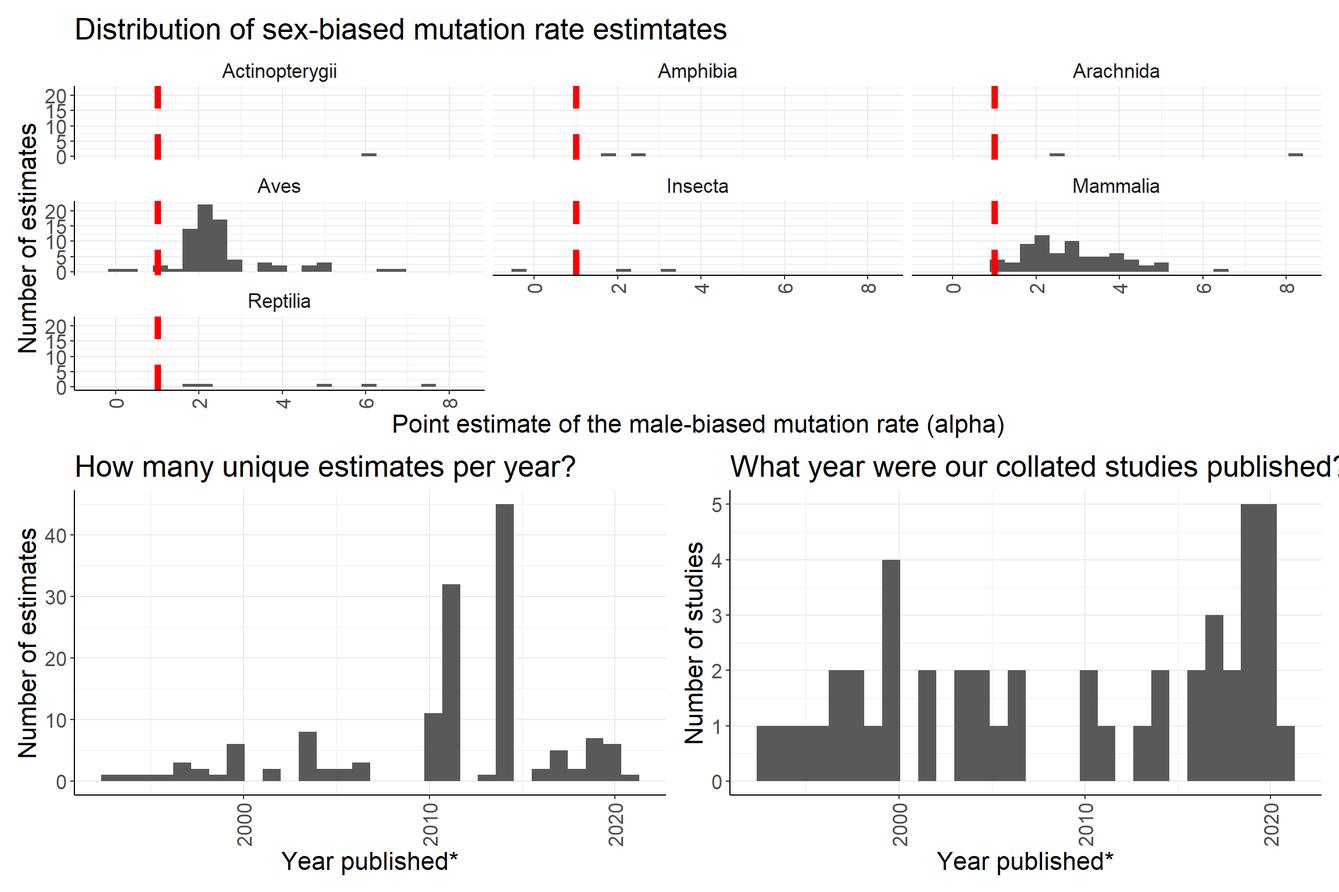
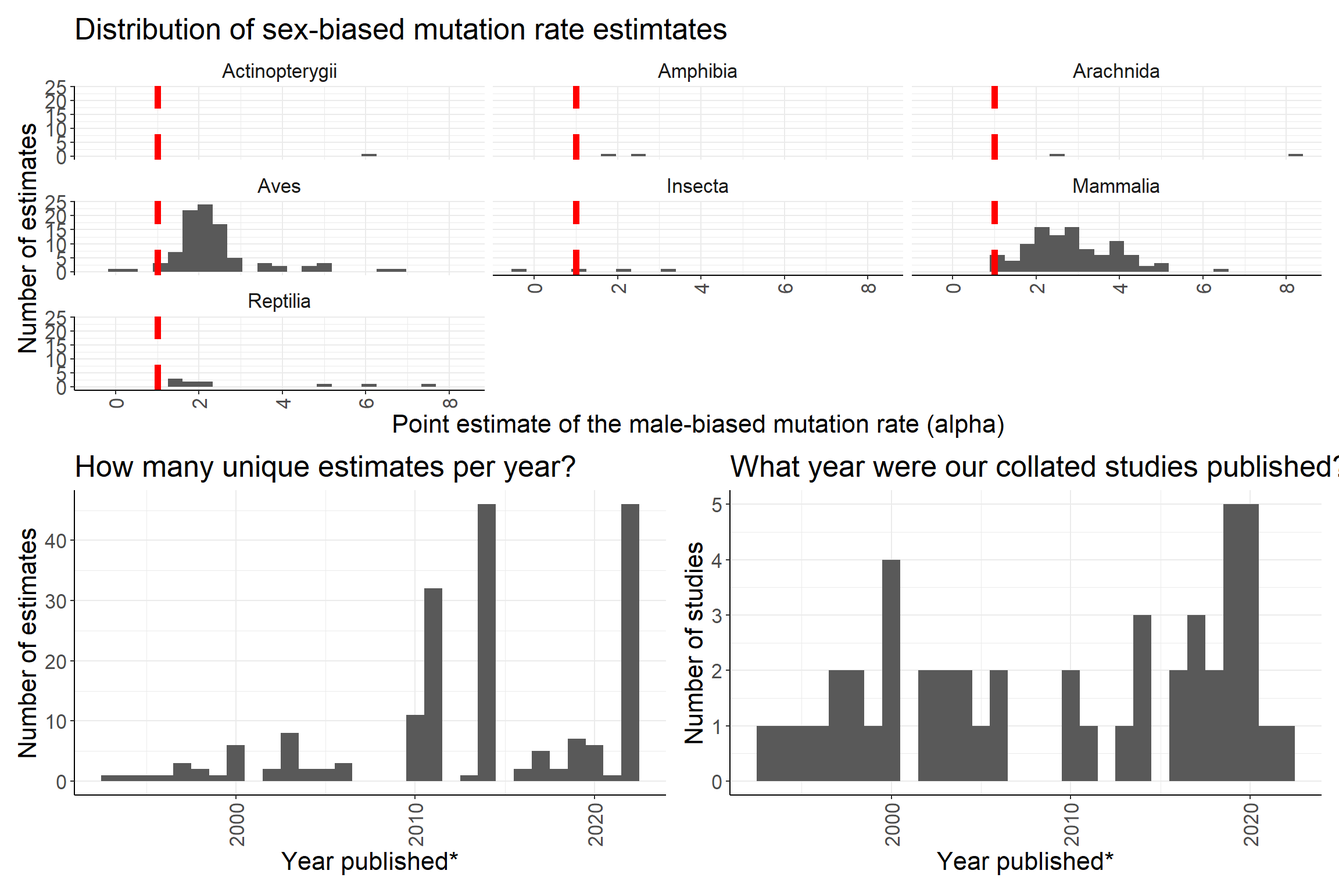
Build site.

diff --git a/docs/sex_biased_mutation_rate.html b/docs/sex_biased_mutation_rate.html
@@ -389,7 +389,7 @@ div.tocify {
 <div class="tab-content">
 <div id="summary" class="tab-pane fade in active">
 <p>
-<strong>Last updated:</strong> 2022-02-06
+<strong>Last updated:</strong> 2022-02-11
 </p>
 <p>
 <strong>Checks:</strong> <span class="glyphicon glyphicon-ok text-success" aria-hidden="true"></span> 7 <span class="glyphicon glyphicon-exclamation-sign text-danger" aria-hidden="true"></span> 0
@@ -480,23 +480,28 @@ This reproducible <a href="http://rmarkdown.rstudio.com">R Markdown</a> analysis
 <div class="panel panel-default">
 <div class="panel-heading">
 <p class="panel-title">
-<a data-toggle="collapse" data-parent="#workflowr-checks" href="#strongRepositoryversionstrongahrefhttpsgithubcomIJbeasleyunguardedxjournalclubtree3751ab00dbb8a15d62e18dc05f1b8072b1d857c9targetblank3751ab0a"> <span class="glyphicon glyphicon-ok text-success" aria-hidden="true"></span> <strong>Repository version:</strong> <a href="https://github.com/IJbeasley/unguarded_x_journal_club/tree/3751ab00dbb8a15d62e18dc05f1b8072b1d857c9" target="_blank">3751ab0</a> </a>
+<a data-toggle="collapse" data-parent="#workflowr-checks" href="#strongRepositoryversionstrongahrefhttpsgithubcomIJbeasleyunguardedxjournalclubtree2c0e2e0a3213cbdcbb33d26384aa99fa531321abtargetblank2c0e2e0a"> <span class="glyphicon glyphicon-ok text-success" aria-hidden="true"></span> <strong>Repository version:</strong> <a href="https://github.com/IJbeasley/unguarded_x_journal_club/tree/2c0e2e0a3213cbdcbb33d26384aa99fa531321ab" target="_blank">2c0e2e0</a> </a>
 </p>
 </div>
[2 lines of base64/hex data omitted]
 <div class="panel-body">
 <p>
 Great! You are using Git for version control. Tracking code development and connecting the code version to the results is critical for reproducibility.
 </p>
 <p>
-The results in this page were generated with repository version <a href="https://github.com/IJbeasley/unguarded_x_journal_club/tree/3751ab00dbb8a15d62e18dc05f1b8072b1d857c9" target="_blank">3751ab0</a>. See the <em>Past versions</em> tab to see a history of the changes made to the R Markdown and HTML files.
+The results in this page were generated with repository version <a href="https://github.com/IJbeasley/unguarded_x_journal_club/tree/2c0e2e0a3213cbdcbb33d26384aa99fa531321ab" target="_blank">2c0e2e0</a>. See the <em>Past versions</em> tab to see a history of the changes made to the R Markdown and HTML files.
 </p>
 <p>
 Note that you need to be careful to ensure that all relevant files for the analysis have been committed to Git prior to generating the results (you can use <code>wflow_publish</code> or <code>wflow_git_commit</code>). workflowr only checks the R Markdown file, but you know if there are other scripts or data files that it depends on. Below is the status of the Git repository when the results were generated:
 </p>
 <pre><code>
-Ignored files:
-    Ignored:    analysis/figure/
+Untracked files:
+    Untracked:  Figure_1.pdf
+    Untracked:  SupplementaryFile3_Indonesian_eQTL_nominal.tsv
+    Untracked:  figures/
+
+Unstaged changes:
+    Modified:   analysis/figure_1.Rmd
 
 </code></pre>
 <p>
@@ -535,6 +540,40 @@ Message
 </tr>
 </thead>
 <tbody>
+<tr>
+<td>
+Rmd
+</td>
+<td>
+<a href="https://github.com/IJbeasley/unguarded_x_journal_club/blob/2c0e2e0a3213cbdcbb33d26384aa99fa531321ab/analysis/sex_biased_mutation_rate.Rmd" target="_blank">2c0e2e0</a>
+</td>
+<td>
+Isobel Beasley
+</td>
+<td>
+2022-02-11
+</td>
+<td>
+Update investigation for new data
+</td>
+</tr>
+<tr>
+<td>
+html
+</td>
+<td>
+<a href="https://rawcdn.githack.com/IJbeasley/unguarded_x_journal_club/3f615619f082fc1eba40d75067756316cc7f9bb4/docs/sex_biased_mutation_rate.html" target="_blank">3f61561</a>
+</td>
+<td>
+Isobel Beasley
+</td>
+<td>
+2022-02-06
+</td>
+<td>
+Build site.
+</td>
+</tr>
 <tr>
 <td>
 Rmd
@@ -734,21 +773,19 @@ Publish inital webpages project
 <h1>Set up</h1>
 <pre class="r"><code>library(ggplot2)
 suppressMessages(library(dplyr))
-library(reactable)</code></pre>
-<pre><code>Warning: package &#39;reactable&#39; was built under R version 4.1.2</code></pre>
-<pre class="r"><code>library(tidyr)
+library(reactable)
+library(tidyr)
 
 # only look at public sheets - so no authentication is needed
 googlesheets4::gs4_deauth()
 
 # read in sex bias mutation data.frame
-sex_bias_mut_df = googlesheets4::read_sheet(&quot;https://docs.google.com/spreadsheets/d/10ZVgeGlDpEnPG-4zLLrSBQjF7p2_9hzzIMPuIRuvogg/edit#gid=537547888&quot;, range = &quot;Sex-bias estimates&quot;)</code></pre>
-<pre><code>v Reading from &quot;Sex_bias_mutation_rate&quot;.</code></pre>
-<pre><code>v Range &#39;&#39;Sex-bias estimates&#39;&#39;.</code></pre>
-<pre class="r"><code># what does the sex bias in mutation rate estimate look like: 
+sex_bias_mut_df = googlesheets4::read_sheet(&quot;https://docs.google.com/spreadsheets/d/10ZVgeGlDpEnPG-4zLLrSBQjF7p2_9hzzIMPuIRuvogg/edit#gid=537547888&quot;, range = &quot;Sex-bias estimates&quot;)
+
+# what does the sex bias in mutation rate estimate look like: 
 head(sex_bias_mut_df) %&gt;% reactable()</code></pre>
 <div id="htmlwidget-0bc58612b86b389075fb" class="reactable html-widget" style="width:auto;height:auto;"></div>
-<script type="application/json" data-for="htmlwidget-0bc58612b86b389075fb">{"x":{"tag":{"name":"Reactable","attribs":{"data":{"authors":["Shimmin, Chang and Li","Chang et al.","Chang and Li","Chang, Hewett-Emmett and Li","Ellegren and Fridolfsson","Huang et al."],"year":[1993,1994,1995,1996,1997,1997],"taxonomic_class":["Mammalia","Mammalia","Mammalia","Mammalia","Aves","Mammalia"],"animal_name":["Primates (Human, Orangutan, Baboons, Squirrel Monkey)","Rodents (Mouse;Rat)","Rodents (Mouse;Rat)","Primates (Human, Orangutan, Baboons, Squirrel Monkey)","Birds (Collared flycatcher;Yellowhammer)","Primates (Human, Orangutan, Squirrel Monkey)"],"scientific_name":["Homo sapiens;Pongo pygmaeus;Papio\ncynocephalus;Saimiri boliviensis","Mus musculus;Rattus norvegicus","Mus musculus;Rattus norvegicus","Homo sapiens;Pongo pygmaeus;Papio\ncynocephalus;Saimiri boliviensis","Ficedula albicollis;Emberiza citrinella","Homo sapiens;Pongo pygmaeus;Saimiri boliviensis"],"alpha_point_estimate":[6.26,1,2,4.2,3.9,5.14],"alpha_estimate_lower":[2.63,1.8,1,2.2,1.12,2.42],"alpha_estimate_upper":[32.4,3.2,3.9,10,6.68,16.6],"method_used_to_calculate_alpha":["Evolutionary method (Miyata et al. 1987, comparing X/Y)","Evolutionary method (Miyata et al. 1987, comparing X/Y)","Evolutionary method (Miyata et al. 1987, comparing X/Y)","Evolutionary method (Miyata et al. 1987, comparing X/Y)","Evolutionary method (Miyata et al. 1987; comparing Z/W)","Evolutionary method (Miyata et al. 1987, comparing X/Y)"],"upper_lower_meaning":["Lower and upper estimates are the 95% confidence interval for alpha","Lower and upper estimates are the 95% confidence interval for alpha","Lower and upper estimates are the 95% confidence interval for alpha","Lower and upper estimates are the 95% confidence interval for alpha","Lower and upper estimates are the 95% confidence interval for alpha","Lower and upper estimates are the 95% confidence interval for alpha"],"loci_type_for_estimate":["Intron","Intron","Intron","Intron","Exon","Intron"],"number_of_loci_for_estimate":["Single gene pair","Single gene pair","Single gene pair","Single gene pair","Single gene pair","Single gene pair"],"mutation_type":[null,null,null,null,null,null],"other_notes":["Gene pair: ZFY/ZFX","Gene pair: ZFY/ZFX","Gene pair: Ube 1X/Ube 1Y","Gene pair: SMCY/SMCX","Gene pair: CHDZ / CHDW","Gene pair: AMGX/AMGY"]},"columns":[{"accessor":"authors","name":"authors","type":"character"},{"accessor":"year","name":"year","type":"numeric"},{"accessor":"taxonomic_class","name":"taxonomic_class","type":"character"},{"accessor":"animal_name","name":"animal_name","type":"character"},{"accessor":"scientific_name","name":"scientific_name","type":"character"},{"accessor":"alpha_point_estimate","name":"alpha_point_estimate","type":"numeric"},{"accessor":"alpha_estimate_lower","name":"alpha_estimate_lower","type":"numeric"},{"accessor":"alpha_estimate_upper","name":"alpha_estimate_upper","type":"numeric"},{"accessor":"method_used_to_calculate_alpha","name":"method_used_to_calculate_alpha","type":"character"},{"accessor":"upper_lower_meaning","name":"upper_lower_meaning","type":"character"},{"accessor":"loci_type_for_estimate","name":"loci_type_for_estimate","type":"character"},{"accessor":"number_of_loci_for_estimate","name":"number_of_loci_for_estimate","type":"character"},{"accessor":"mutation_type","name":"mutation_type","type":"character"},{"accessor":"other_notes","name":"other_notes","type":"character"}],"defaultPageSize":10,"paginationType":"numbers","showPageInfo":true,"minRows":1,"dataKey":"c7a55accab30ba4d2a8968dccbe0b3cd","key":"c7a55accab30ba4d2a8968dccbe0b3cd"},"children":[]},"class":"reactR_markup"},"evals":[],"jsHooks":[]}</script>
+<script type="application/json" data-for="htmlwidget-0bc58612b86b389075fb">{"x":{"tag":{"name":"Reactable","attribs":{"data":{"authors":["Shimmin, Chang and Li","Chang et al.","Chang and Li","Chang, Hewett-Emmett and Li","Ellegren and Fridolfsson","Huang et al."],"year":[1993,1994,1995,1996,1997,1997],"taxonomic_class":["Mammalia","Mammalia","Mammalia","Mammalia","Aves","Mammalia"],"animal_name":["Primates (Human, Orangutan, Baboons, Squirrel Monkey)","Rodents (Mouse;Rat)","Rodents (Mouse;Rat)","Primates (Human, Orangutan, Baboons, Squirrel Monkey)","Birds (Collared flycatcher;Yellowhammer)","Primates (Human, Orangutan, Squirrel Monkey)"],"scientific_name":["Homo sapiens;Pongo pygmaeus;Papio\ncynocephalus;Saimiri boliviensis","Mus musculus;Rattus norvegicus","Mus musculus;Rattus norvegicus","Homo sapiens;Pongo pygmaeus;Papio\ncynocephalus;Saimiri boliviensis","Ficedula albicollis;Emberiza citrinella","Homo sapiens;Pongo pygmaeus;Saimiri boliviensis"],"alpha_point_estimate":[6.26,1,2,4.2,3.9,5.14],"alpha_estimate_lower":[2.63,1.8,1,2.2,1.12,2.42],"alpha_estimate_upper":[32.4,3.2,3.9,10,6.68,16.6],"method_used_to_calculate_alpha":["Evolutionary method (Miyata et al. 1987, comparing X/Y)","Evolutionary method (Miyata et al. 1987, comparing X/Y)","Evolutionary method (Miyata et al. 1987, comparing X/Y)","Evolutionary method (Miyata et al. 1987, comparing X/Y)","Evolutionary method (Miyata et al. 1987; comparing Z/W)","Evolutionary method (Miyata et al. 1987, comparing X/Y)"],"upper_lower_meaning":["Lower and upper estimates are the 95% confidence interval for alpha","Lower and upper estimates are the 95% confidence interval for alpha","Lower and upper estimates are the 95% confidence interval for alpha","Lower and upper estimates are the 95% confidence interval for alpha","Lower and upper estimates are the 95% confidence interval for alpha","Lower and upper estimates are the 95% confidence interval for alpha"],"loci_type_for_estimate":["Intron","Intron","Intron","Intron","Exon","Intron"],"number_of_loci_for_estimate":["Single gene pair","Single gene pair (1 intron)","Single gene pair (3 intron)","Single gene pair","Single gene pair","Single gene pair"],"mutation_type":["Nucleotide substitutions","Nucleotide substitutions","Nucleotide substitutions",null,null,null],"other_notes":["Gene pair: ZFY/ZFX","Gene pair: ZFY/ZFX","Gene pair: Ube 1X/Ube 1Y, used both non-synmous and synomous substitions, from the article: \"a similar estimate is obtained using synonymous substitutions (~ = 2.37), although the 95% confidence interval is larger (-0.21 to 5.10)\"","Gene pair: SMCY/SMCX","Gene pair: CHDZ / CHDW","Gene pair: AMGX/AMGY"]},"columns":[{"accessor":"authors","name":"authors","type":"character"},{"accessor":"year","name":"year","type":"numeric"},{"accessor":"taxonomic_class","name":"taxonomic_class","type":"character"},{"accessor":"animal_name","name":"animal_name","type":"character"},{"accessor":"scientific_name","name":"scientific_name","type":"character"},{"accessor":"alpha_point_estimate","name":"alpha_point_estimate","type":"numeric"},{"accessor":"alpha_estimate_lower","name":"alpha_estimate_lower","type":"numeric"},{"accessor":"alpha_estimate_upper","name":"alpha_estimate_upper","type":"numeric"},{"accessor":"method_used_to_calculate_alpha","name":"method_used_to_calculate_alpha","type":"character"},{"accessor":"upper_lower_meaning","name":"upper_lower_meaning","type":"character"},{"accessor":"loci_type_for_estimate","name":"loci_type_for_estimate","type":"character"},{"accessor":"number_of_loci_for_estimate","name":"number_of_loci_for_estimate","type":"character"},{"accessor":"mutation_type","name":"mutation_type","type":"character"},{"accessor":"other_notes","name":"other_notes","type":"character"}],"defaultPageSize":10,"paginationType":"numbers","showPageInfo":true,"minRows":1,"dataKey":"33d80b7d4806e90a8c9c55e1230860b3","key":"33d80b7d4806e90a8c9c55e1230860b3"},"children":[]},"class":"reactR_markup"},"evals":[],"jsHooks":[]}</script>
 <pre class="r"><code># Set up custom theme for ggplots
 custom_theme &lt;-
   list(
@@ -771,7 +808,7 @@ custom_theme &lt;-
   select(authors,year) %&gt;% 
   distinct() %&gt;% 
   nrow()</code></pre>
-<pre><code>[1] 46</code></pre>
+<pre><code>[1] 48</code></pre>
 </div>
 <div id="when-where-these-studies-published" class="section level2">
 <h2>When where these studies published?</h2>
@@ -814,7 +851,7 @@ custom_theme &lt;-
   summarise(n = n()) %&gt;% 
   reactable()</code></pre>
 <div id="htmlwidget-a71b15f820af623e53da" class="reactable html-widget" style="width:auto;height:auto;"></div>
-<script type="application/json" data-for="htmlwidget-a71b15f820af623e53da">{"x":{"tag":{"name":"Reactable","attribs":{"data":{"taxonomic_class":["Actinopterygii","Amphibia","Arachnida","Aves","Insecta","Mammalia","Reptilia"],"n":[1,2,2,74,3,71,5]},"columns":[{"accessor":"taxonomic_class","name":"taxonomic_class","type":"character"},{"accessor":"n","name":"n","type":"numeric"}],"defaultPageSize":10,"paginationType":"numbers","showPageInfo":true,"minRows":1,"dataKey":"b37d009d332399f309daa81edb54b66f","key":"b37d009d332399f309daa81edb54b66f"},"children":[]},"class":"reactR_markup"},"evals":[],"jsHooks":[]}</script>
+<script type="application/json" data-for="htmlwidget-a71b15f820af623e53da">{"x":{"tag":{"name":"Reactable","attribs":{"data":{"taxonomic_class":["Actinopterygii","Amphibia","Arachnida","Aves","Insecta","Mammalia","Reptilia"],"n":[1,2,2,92,4,103,10]},"columns":[{"accessor":"taxonomic_class","name":"taxonomic_class","type":"character"},{"accessor":"n","name":"n","type":"numeric"}],"defaultPageSize":10,"paginationType":"numbers","showPageInfo":true,"minRows":1,"dataKey":"3791643c59cdfb11e882fc8edca2145a","key":"3791643c59cdfb11e882fc8edca2145a"},"children":[]},"class":"reactR_markup"},"evals":[],"jsHooks":[]}</script>
 </div>
 <div id="number-of-estimates-per-method-used-to-calculate-the-sex-biased-ratio-in-mutation-rate" class="section level2">
 <h2>Number of estimates per method used to calculate the sex-biased ratio in mutation rate</h2>
@@ -823,7 +860,7 @@ custom_theme &lt;-
   summarise(n = n()) %&gt;% 
   reactable(defaultPageSize = 50)</code></pre>
 <div id="htmlwidget-953d50596abf826ad1b4" class="reactable html-widget" style="width:auto;height:auto;"></div>
-<script type="application/json" data-for="htmlwidget-953d50596abf826ad1b4">{"x":{"tag":{"name":"Reactable","attribs":{"data":{"method_used_to_calculate_alpha":["Direct estimate (trios)","Evolutionary method (Miyata et al. 1987, comparing X/Y)","Evolutionary method (Miyata et al. 1987; comparing W/Autosomes)","Evolutionary method (Miyata et al. 1987; comparing X/Autosomes)","Evolutionary method (Miyata et al. 1987; comparing X/Y)","Evolutionary method (Miyata et al. 1987; comparing Y/Autosomes)","Evolutionary method (Miyata et al. 1987; comparing Z/Autosomes)","Evolutionary method (Miyata et al. 1987; comparing Z/W)"],"n":[14,5,1,49,9,6,58,16]},"columns":[{"accessor":"method_used_to_calculate_alpha","name":"method_used_to_calculate_alpha","type":"character"},{"accessor":"n","name":"n","type":"numeric"}],"defaultPageSize":50,"paginationType":"numbers","showPageInfo":true,"minRows":1,"dataKey":"6d4b1574f21840c6957f26e7bd331f36","key":"6d4b1574f21840c6957f26e7bd331f36"},"children":[]},"class":"reactR_markup"},"evals":[],"jsHooks":[]}</script>
+<script type="application/json" data-for="htmlwidget-953d50596abf826ad1b4">{"x":{"tag":{"name":"Reactable","attribs":{"data":{"method_used_to_calculate_alpha":["Direct estimate (trios)","Evolutionary method (Miyata et al. 1987, comparing X/Y)","Evolutionary method (Miyata et al. 1987; comparing W/Autosomes)","Evolutionary method (Miyata et al. 1987; comparing X/Autosomes)","Evolutionary method (Miyata et al. 1987; comparing X/Y)","Evolutionary method (Miyata et al. 1987; comparing Y/Autosomes)","Evolutionary method (Miyata et al. 1987; comparing Z/Autosomes)","Evolutionary method (Miyata et al. 1987; comparing Z/W)"],"n":[27,5,1,70,9,6,80,16]},"columns":[{"accessor":"method_used_to_calculate_alpha","name":"method_used_to_calculate_alpha","type":"character"},{"accessor":"n","name":"n","type":"numeric"}],"defaultPageSize":50,"paginationType":"numbers","showPageInfo":true,"minRows":1,"dataKey":"170f7db15af12e9960856d3bd44aa215","key":"170f7db15af12e9960856d3bd44aa215"},"children":[]},"class":"reactR_markup"},"evals":[],"jsHooks":[]}</script>
 </div>
 <div id="number-of-estimates-per-loci-type-used-to-calculate-the-sex-biased-ratio-in-mutation-rate" class="section level2">
 <h2>Number of estimates per loci type used to calculate the sex-biased ratio in mutation rate</h2>
@@ -832,7 +869,7 @@ custom_theme &lt;-
   summarise(n = n()) %&gt;% 
   reactable(defaultPageSize = 50)</code></pre>
 <div id="htmlwidget-dfb6bc2cdefdbd9c15ee" class="reactable html-widget" style="width:auto;height:auto;"></div>
-<script type="application/json" data-for="htmlwidget-dfb6bc2cdefdbd9c15ee">{"x":{"tag":{"name":"Reactable","attribs":{"data":{"loci_type_for_estimate":["Ancestral repeat","Ancestral repeats","Exon","Intron","Microsattelite","Non-coding","Noncoding sequence","Short tandem repeat (STR)","Synomous site","Synonymous site","Whole genome",null],"n":[1,2,1,76,2,32,1,1,1,12,1,28]},"columns":[{"accessor":"loci_type_for_estimate","name":"loci_type_for_estimate","type":"character"},{"accessor":"n","name":"n","type":"numeric"}],"defaultPageSize":50,"paginationType":"numbers","showPageInfo":true,"minRows":1,"dataKey":"ebdd64bdf67086753b764a970f5264da","key":"ebdd64bdf67086753b764a970f5264da"},"children":[]},"class":"reactR_markup"},"evals":[],"jsHooks":[]}</script>
+<script type="application/json" data-for="htmlwidget-dfb6bc2cdefdbd9c15ee">{"x":{"tag":{"name":"Reactable","attribs":{"data":{"loci_type_for_estimate":["Ancestral repeat","Ancestral repeats","Exon","Exons and Introns","Intron","Microsattelite","Non-coding","Non-coding regions","Short tandem repeat (STR)","Synomous site","Synonymous site","Whole genome",null],"n":[1,2,1,2,76,2,1,74,1,1,12,3,38]},"columns":[{"accessor":"loci_type_for_estimate","name":"loci_type_for_estimate","type":"character"},{"accessor":"n","name":"n","type":"numeric"}],"defaultPageSize":50,"paginationType":"numbers","showPageInfo":true,"minRows":1,"dataKey":"1331bdb9693004d9cd78775ef0a3fd65","key":"1331bdb9693004d9cd78775ef0a3fd65"},"children":[]},"class":"reactR_markup"},"evals":[],"jsHooks":[]}</script>
 <pre class="r"><code># Number of unique studies
 
 sex_bias_mut_df %&gt;% 
@@ -844,7 +881,7 @@ sex_bias_mut_df %&gt;%
   reactable(defaultPageSize = 50)</code></pre>
 <pre><code>`summarise()` has grouped output by &#39;taxonomic_class&#39;. You can override using the `.groups` argument.</code></pre>
 <div id="htmlwidget-780cb9f563e2acfaa2c2" class="reactable html-widget" style="width:auto;height:auto;"></div>
-<script type="application/json" data-for="htmlwidget-780cb9f563e2acfaa2c2">{"x":{"tag":{"name":"Reactable","attribs":{"data":{"taxonomic_class":["Actinopterygii","Amphibia","Arachnida","Aves","Aves","Aves","Aves","Aves","Aves","Insecta","Insecta","Mammalia","Mammalia","Mammalia","Mammalia","Mammalia","Mammalia","Mammalia","Mammalia","Reptilia"],"loci_type_for_estimate":["Intron",null,"Synonymous site","Ancestral repeat","Exon","Intron","Microsattelite","Synonymous site",null,"Synomous site",null,"Ancestral repeats","Intron","Microsattelite","Non-coding","Noncoding sequence","Short tandem repeat (STR)","Whole genome",null,null],"n":[1,1,1,1,1,5,1,1,2,1,1,1,8,1,1,1,1,1,13,3]},"columns":[{"accessor":"taxonomic_class","name":"taxonomic_class","type":"character"},{"accessor":"loci_type_for_estimate","name":"loci_type_for_estimate","type":"character"},{"accessor":"n","name":"n","type":"numeric"}],"defaultPageSize":50,"paginationType":"numbers","showPageInfo":true,"minRows":1,"dataKey":"2ff56732c8183689d422bde3864f32a8","key":"2ff56732c8183689d422bde3864f32a8"},"children":[]},"class":"reactR_markup"},"evals":[],"jsHooks":[]}</script>
+<script type="application/json" data-for="htmlwidget-780cb9f563e2acfaa2c2">{"x":{"tag":{"name":"Reactable","attribs":{"data":{"taxonomic_class":["Actinopterygii","Amphibia","Arachnida","Aves","Aves","Aves","Aves","Aves","Aves","Aves","Insecta","Insecta","Mammalia","Mammalia","Mammalia","Mammalia","Mammalia","Mammalia","Mammalia","Mammalia","Reptilia"],"loci_type_for_estimate":["Intron","Exons and Introns","Synonymous site","Ancestral repeat","Exon","Intron","Microsattelite","Synonymous site","Whole genome",null,"Synomous site",null,"Ancestral repeats","Intron","Microsattelite","Non-coding","Non-coding regions","Short tandem repeat (STR)","Whole genome",null,null],"n":[1,1,1,1,1,5,1,1,1,1,1,2,1,8,1,1,1,1,2,13,3]},"columns":[{"accessor":"taxonomic_class","name":"taxonomic_class","type":"character"},{"accessor":"loci_type_for_estimate","name":"loci_type_for_estimate","type":"character"},{"accessor":"n","name":"n","type":"numeric"}],"defaultPageSize":50,"paginationType":"numbers","showPageInfo":true,"minRows":1,"dataKey":"5de5cad83b13d7b2fb637904dde2eab7","key":"5de5cad83b13d7b2fb637904dde2eab7"},"children":[]},"class":"reactR_markup"},"evals":[],"jsHooks":[]}</script>
 </div>
 <div id="number-of-estimates-by-both-taxonomic-class-and-method-used-to-calculate" class="section level2">
 <h2>Number of estimates by both taxonomic class and method used to calculate</h2>
@@ -854,7 +891,7 @@ sex_bias_mut_df %&gt;%
   reactable(defaultPageSize = 50)</code></pre>
 <pre><code>`summarise()` has grouped output by &#39;taxonomic_class&#39;. You can override using the `.groups` argument.</code></pre>
 <div id="htmlwidget-de5fccbccc4019eddf97" class="reactable html-widget" style="width:auto;height:auto;"></div>
-<script type="application/json" data-for="htmlwidget-de5fccbccc4019eddf97">{"x":{"tag":{"name":"Reactable","attribs":{"data":{"taxonomic_class":["Actinopterygii","Amphibia","Amphibia","Arachnida","Aves","Aves","Aves","Aves","Insecta","Mammalia","Mammalia","Mammalia","Mammalia","Mammalia","Reptilia","Reptilia","Reptilia","Reptilia"],"method_used_to_calculate_alpha":["Evolutionary method (Miyata et al. 1987; comparing Y/Autosomes)","Evolutionary method (Miyata et al. 1987; comparing X/Y)","Evolutionary method (Miyata et al. 1987; comparing Z/W)","Evolutionary method (Miyata et al. 1987; comparing X/Autosomes)","Direct estimate (trios)","Evolutionary method (Miyata et al. 1987; comparing W/Autosomes)","Evolutionary method (Miyata et al. 1987; comparing Z/Autosomes)","Evolutionary method (Miyata et al. 1987; comparing Z/W)","Evolutionary method (Miyata et al. 1987; comparing X/Autosomes)","Direct estimate (trios)","Evolutionary method (Miyata et al. 1987, comparing X/Y)","Evolutionary method (Miyata et al. 1987; comparing X/Autosomes)","Evolutionary method (Miyata et al. 1987; comparing X/Y)","Evolutionary method (Miyata et al. 1987; comparing Y/Autosomes)","Evolutionary method (Miyata et al. 1987; comparing X/Autosomes)","Evolutionary method (Miyata et al. 1987; comparing X/Y)","Evolutionary method (Miyata et al. 1987; comparing Y/Autosomes)","Evolutionary method (Miyata et al. 1987; comparing Z/Autosomes)"],"n":[1,1,1,2,2,1,56,15,3,12,5,43,7,4,1,1,1,2]},"columns":[{"accessor":"taxonomic_class","name":"taxonomic_class","type":"character"},{"accessor":"method_used_to_calculate_alpha","name":"method_used_to_calculate_alpha","type":"character"},{"accessor":"n","name":"n","type":"numeric"}],"defaultPageSize":50,"paginationType":"numbers","showPageInfo":true,"minRows":1,"dataKey":"9b9e048f560c62e14a5531764c08fd8d","key":"9b9e048f560c62e14a5531764c08fd8d"},"children":[]},"class":"reactR_markup"},"evals":[],"jsHooks":[]}</script>
+<script type="application/json" data-for="htmlwidget-de5fccbccc4019eddf97">{"x":{"tag":{"name":"Reactable","attribs":{"data":{"taxonomic_class":["Actinopterygii","Amphibia","Amphibia","Arachnida","Aves","Aves","Aves","Aves","Insecta","Mammalia","Mammalia","Mammalia","Mammalia","Mammalia","Reptilia","Reptilia","Reptilia","Reptilia"],"method_used_to_calculate_alpha":["Evolutionary method (Miyata et al. 1987; comparing Y/Autosomes)","Evolutionary method (Miyata et al. 1987; comparing X/Y)","Evolutionary method (Miyata et al. 1987; comparing Z/W)","Evolutionary method (Miyata et al. 1987; comparing X/Autosomes)","Direct estimate (trios)","Evolutionary method (Miyata et al. 1987; comparing W/Autosomes)","Evolutionary method (Miyata et al. 1987; comparing Z/Autosomes)","Evolutionary method (Miyata et al. 1987; comparing Z/W)","Evolutionary method (Miyata et al. 1987; comparing X/Autosomes)","Direct estimate (trios)","Evolutionary method (Miyata et al. 1987, comparing X/Y)","Evolutionary method (Miyata et al. 1987; comparing X/Autosomes)","Evolutionary method (Miyata et al. 1987; comparing X/Y)","Evolutionary method (Miyata et al. 1987; comparing Y/Autosomes)","Evolutionary method (Miyata et al. 1987; comparing X/Autosomes)","Evolutionary method (Miyata et al. 1987; comparing X/Y)","Evolutionary method (Miyata et al. 1987; comparing Y/Autosomes)","Evolutionary method (Miyata et al. 1987; comparing Z/Autosomes)"],"n":[1,1,1,2,3,1,73,15,4,24,5,63,7,4,1,1,1,7]},"columns":[{"accessor":"taxonomic_class","name":"taxonomic_class","type":"character"},{"accessor":"method_used_to_calculate_alpha","name":"method_used_to_calculate_alpha","type":"character"},{"accessor":"n","name":"n","type":"numeric"}],"defaultPageSize":50,"paginationType":"numbers","showPageInfo":true,"minRows":1,"dataKey":"f089499328f17da4d29d86d476d3b1f1","key":"f089499328f17da4d29d86d476d3b1f1"},"children":[]},"class":"reactR_markup"},"evals":[],"jsHooks":[]}</script>
 </div>
 </div>
 <div id="distribution-of-sex-biased-mutation-estimates" class="section level1">
@@ -881,7 +918,7 @@ sex_bias_mut_df %&gt;%
 <p><img src="figure/sex_biased_mutation_rate.Rmd/dist_sex_est-1.png" width="1152" style="display: block; margin: auto;" /></p>
 <pre class="r"><code>summary(sex_bias_mut_df$alpha_point_estimate)</code></pre>
 <pre><code>   Min. 1st Qu.  Median    Mean 3rd Qu.    Max. 
- -0.480   1.992   2.365   2.873   3.337  20.090 </code></pre>
+ -0.480   1.905   2.343   2.732   3.095  20.090 </code></pre>
 <pre class="r"><code>sex_bias_mut_df %&gt;% 
   ggplot(aes(x=alpha_point_estimate)) +
   geom_boxplot() + 
@@ -993,20 +1030,20 @@ df %&gt;%
   pivot_wider(names_from = taxonomic_class,
               values_from = se,
               values_fn = list)</code></pre>
-<pre><code># A tibble: 118 x 6
-     row Mammalia  Aves      Amphibia Reptilia Insecta
-   &lt;int&gt; &lt;list&gt;    &lt;list&gt;    &lt;list&gt;   &lt;list&gt;   &lt;list&gt; 
- 1     1 &lt;dbl [1]&gt; &lt;NULL&gt;    &lt;NULL&gt;   &lt;NULL&gt;   &lt;NULL&gt; 
- 2     2 &lt;dbl [1]&gt; &lt;NULL&gt;    &lt;NULL&gt;   &lt;NULL&gt;   &lt;NULL&gt; 
- 3     3 &lt;dbl [1]&gt; &lt;NULL&gt;    &lt;NULL&gt;   &lt;NULL&gt;   &lt;NULL&gt; 
- 4     4 &lt;dbl [1]&gt; &lt;NULL&gt;    &lt;NULL&gt;   &lt;NULL&gt;   &lt;NULL&gt; 
- 5     5 &lt;NULL&gt;    &lt;dbl [1]&gt; &lt;NULL&gt;   &lt;NULL&gt;   &lt;NULL&gt; 
- 6     6 &lt;dbl [1]&gt; &lt;NULL&gt;    &lt;NULL&gt;   &lt;NULL&gt;   &lt;NULL&gt; 
- 7     7 &lt;NULL&gt;    &lt;dbl [1]&gt; &lt;NULL&gt;   &lt;NULL&gt;   &lt;NULL&gt; 
- 8     8 &lt;NULL&gt;    &lt;dbl [1]&gt; &lt;NULL&gt;   &lt;NULL&gt;   &lt;NULL&gt; 
- 9     9 &lt;dbl [1]&gt; &lt;NULL&gt;    &lt;NULL&gt;   &lt;NULL&gt;   &lt;NULL&gt; 
-10    10 &lt;NULL&gt;    &lt;dbl [1]&gt; &lt;NULL&gt;   &lt;NULL&gt;   &lt;NULL&gt; 
-# ... with 108 more rows</code></pre>
+<pre><code># A tibble: 161 x 6
+     row Mammalia  Aves      Insecta Amphibia Reptilia
+   &lt;int&gt; &lt;list&gt;    &lt;list&gt;    &lt;list&gt;  &lt;list&gt;   &lt;list&gt;  
+ 1     1 &lt;dbl [1]&gt; &lt;NULL&gt;    &lt;NULL&gt;  &lt;NULL&gt;   &lt;NULL&gt;  
+ 2     2 &lt;dbl [1]&gt; &lt;NULL&gt;    &lt;NULL&gt;  &lt;NULL&gt;   &lt;NULL&gt;  
+ 3     3 &lt;dbl [1]&gt; &lt;NULL&gt;    &lt;NULL&gt;  &lt;NULL&gt;   &lt;NULL&gt;  
+ 4     4 &lt;dbl [1]&gt; &lt;NULL&gt;    &lt;NULL&gt;  &lt;NULL&gt;   &lt;NULL&gt;  
+ 5     5 &lt;NULL&gt;    &lt;dbl [1]&gt; &lt;NULL&gt;  &lt;NULL&gt;   &lt;NULL&gt;  
+ 6     6 &lt;dbl [1]&gt; &lt;NULL&gt;    &lt;NULL&gt;  &lt;NULL&gt;   &lt;NULL&gt;  
+ 7     7 &lt;NULL&gt;    &lt;dbl [1]&gt; &lt;NULL&gt;  &lt;NULL&gt;   &lt;NULL&gt;  
+ 8     8 &lt;NULL&gt;    &lt;dbl [1]&gt; &lt;NULL&gt;  &lt;NULL&gt;   &lt;NULL&gt;  
+ 9     9 &lt;dbl [1]&gt; &lt;NULL&gt;    &lt;NULL&gt;  &lt;NULL&gt;   &lt;NULL&gt;  
+10    10 &lt;NULL&gt;    &lt;dbl [1]&gt; &lt;NULL&gt;  &lt;NULL&gt;   &lt;NULL&gt;  
+# ... with 151 more rows</code></pre>
 <br>
 <p>
 <button type="button" class="btn btn-default btn-workflowr btn-workflowr-sessioninfo" data-toggle="collapse" data-target="#workflowr-sessioninfo" style="display: block;">
